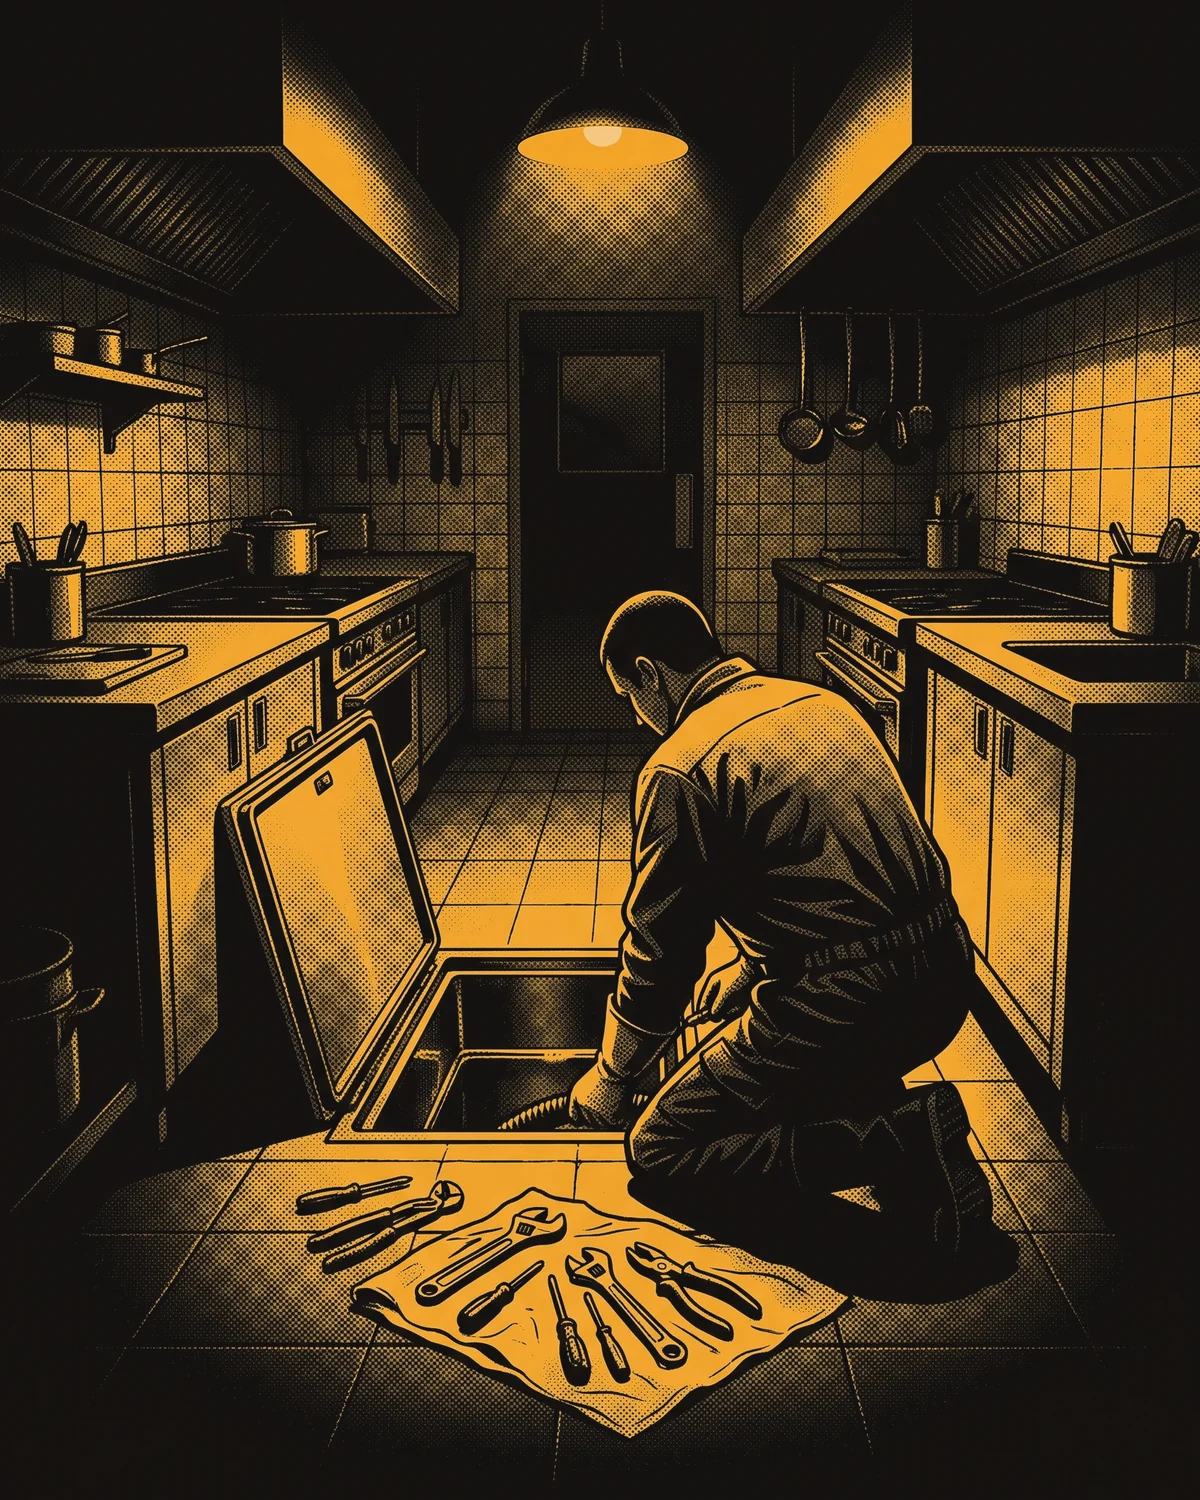
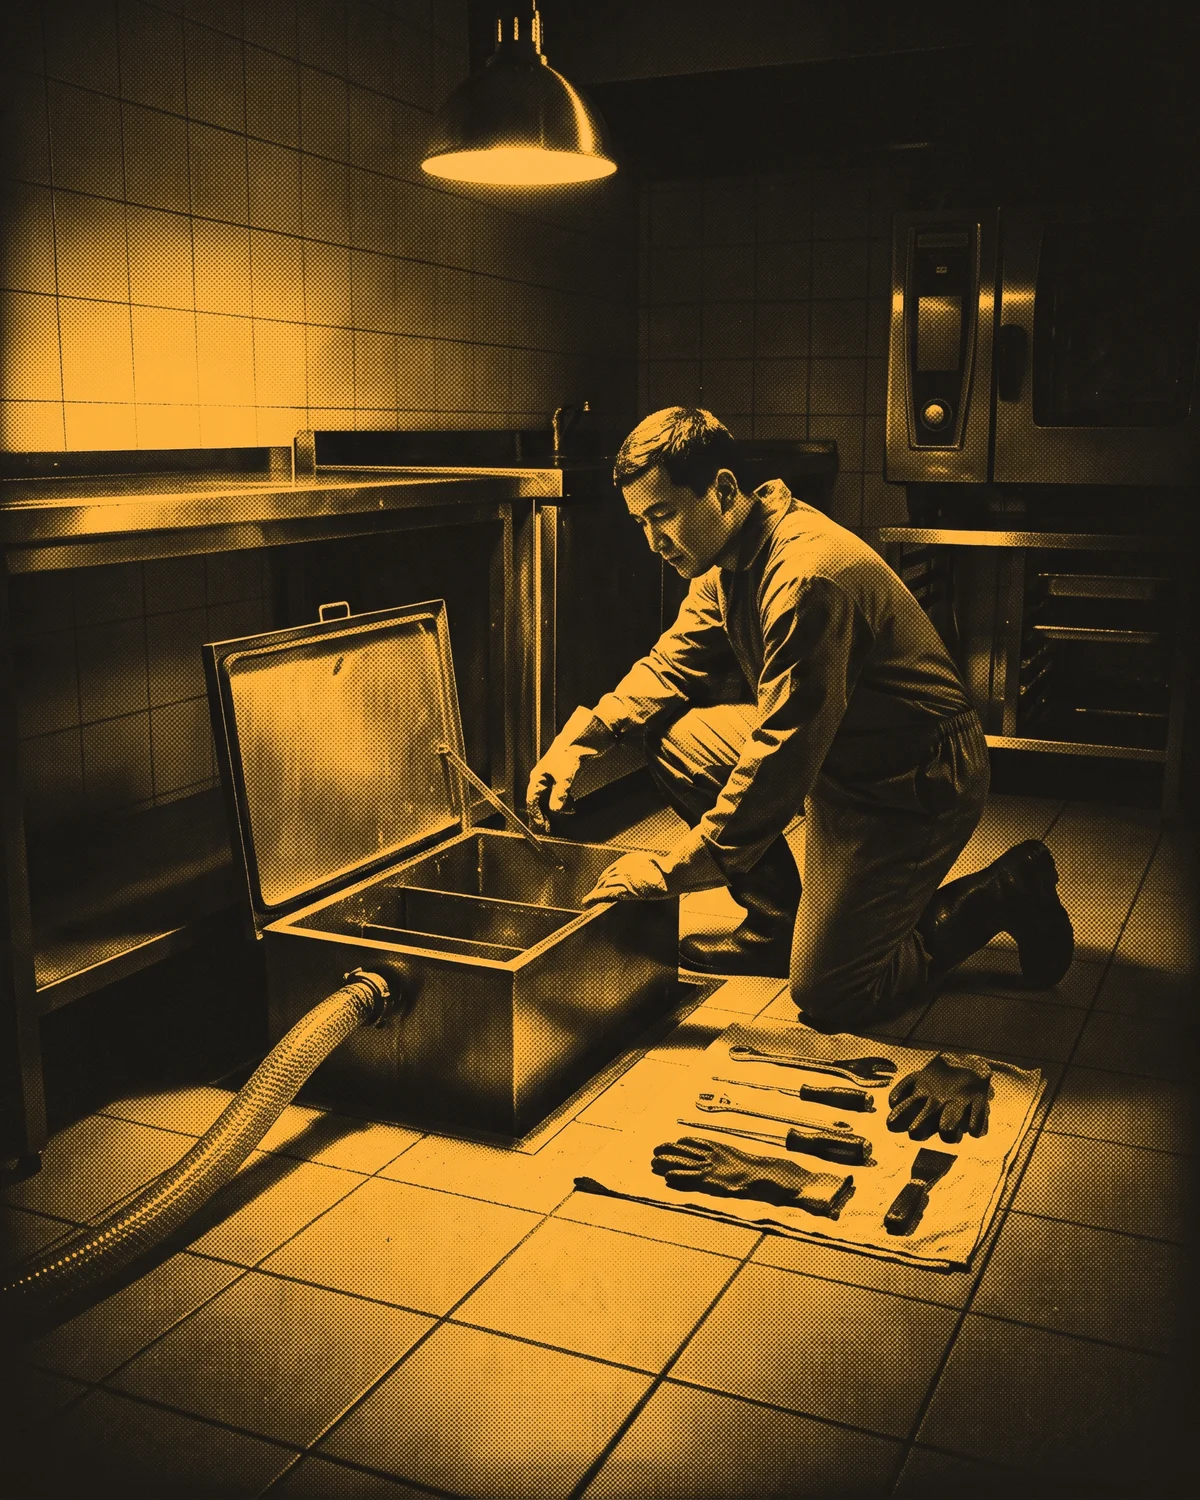
Кухня перегенерирована фотографией — весь ряд в одной технике

diff --git a/README.md b/README.md
@@ -67,9 +67,6 @@ python3 -m http.server 4321
 
 ## Ещё не сделано
 
-- **кухня выбивается из ряда** — пришла плоским рисунком, остальные семь
-  фотографические. Перегенерировать с явным «This is a PHOTOGRAPH, not an
-  illustration», промпт в `photo-prompts.md`
 - **карта зоны выезда** — единственная оставшаяся заглушка, рисовать руками
 - **картинка для соцсетей** — нет `og:image`, нужна 1200×630
 - **шрифты** — грузятся с Google Fonts. Если нужна независимость от CDN,
